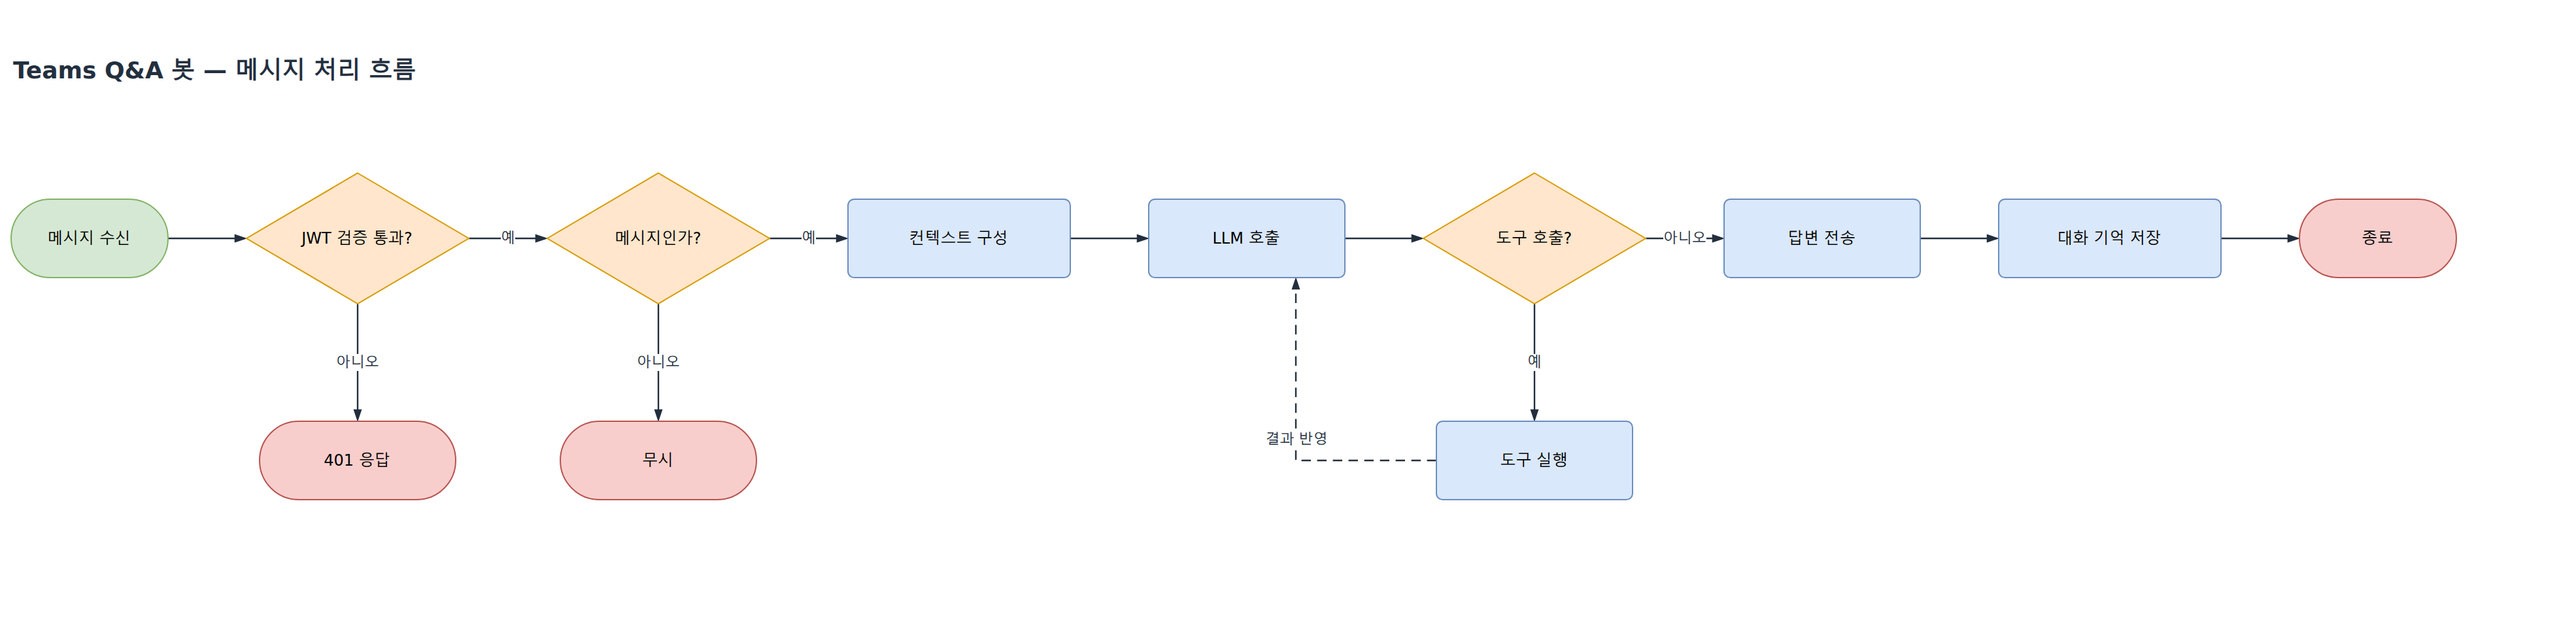
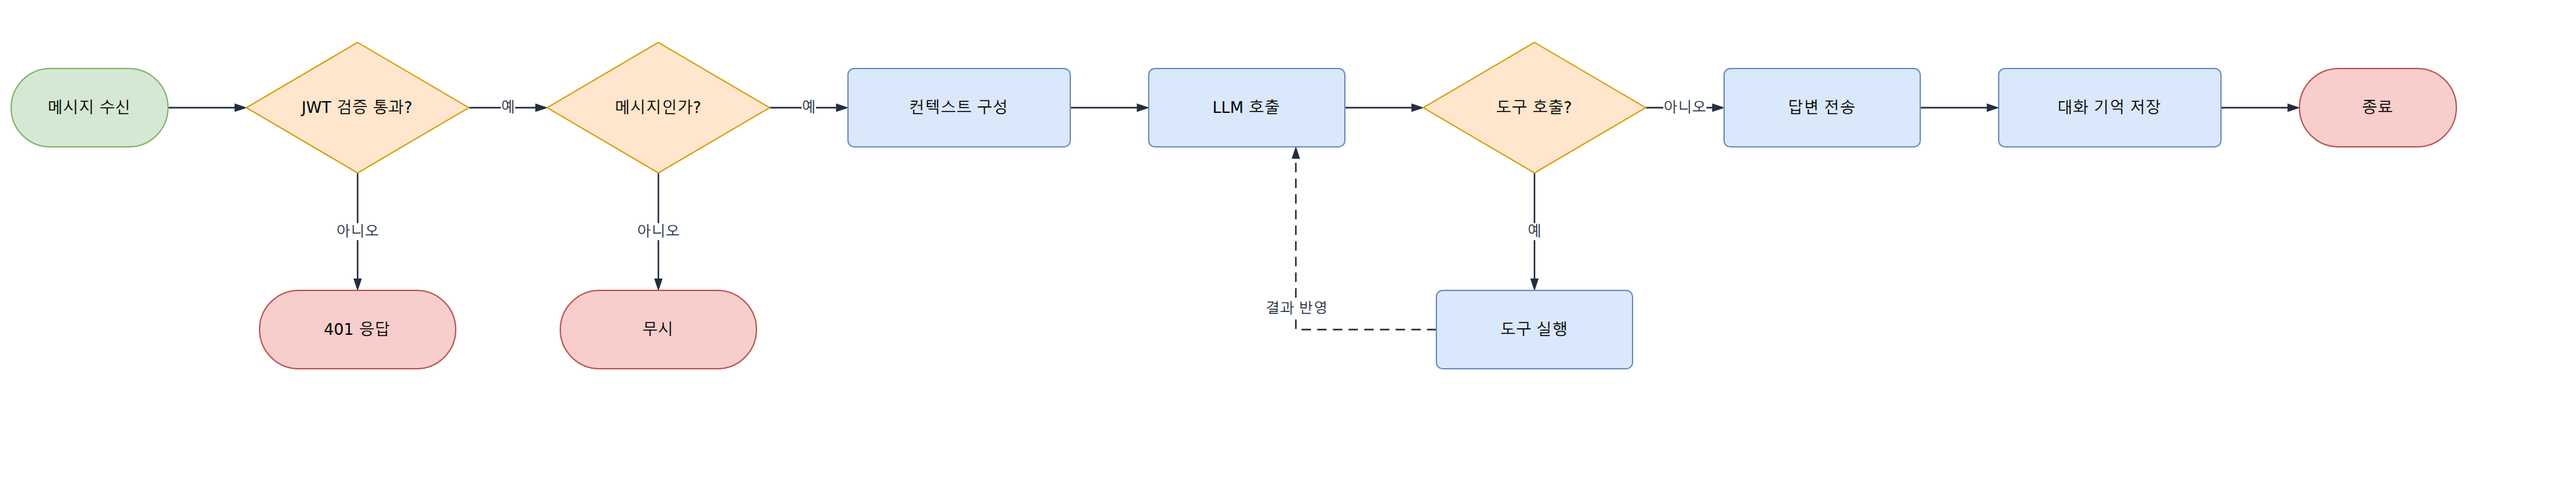
docs: restyle the architecture example and title the README examples
The architecture example now follows the original team-agent layout
(Microsoft 365, inquiry board, AWS account with VPC, internal and SaaS
targets), rearranged so no line crosses a caption or a box label. Titles move
out of the images and into README headings. THIRD-PARTY notes the Teams logo.

diff --git a/docs/team-agent.py b/docs/team-agent.py
@@ -3,9 +3,6 @@
 
   python3 docs/team-agent.py
   python3 scripts/drawio_render.py docs/team-agent.drawio
-
-캡션이 아이콘보다 넓으면 아래 면으로 선을 못 낸다(캡션 관통). 아래로 선을 내는
-노드(큐·워커·도구)는 캡션을 짧게 두고, 무엇인지는 그룹 라벨과 제목에 적는다.
 """
 import os
 import sys
@@ -15,47 +12,58 @@ sys.path.insert(0, os.path.join(HERE, "..", "scripts"))
 from drawio_build import Diagram, icon  # noqa: E402
 from drawio_route import Panel  # noqa: E402
 
-TITLE = ("text;html=0;strokeColor=none;fillColor=none;align=left;verticalAlign=middle;"
-         "fontSize=18;fontStyle=1;fontColor=#232F3E;")
+ROLE = ("text;html=0;strokeColor=none;fillColor=none;align=center;verticalAlign=top;"
+        "fontSize=12;fontColor=#232F3E;")
+ROW1, ROW2 = 480, 680
+C1, C2, C3, C4, C5 = 300, 540, 780, 1020, 1240
 
 d = Diagram("팀 에이전트")
-p = Panel(d, "t", 0, 0)
+p = Panel(d, "a", 0, 0)
 
-p.node("title", "팀 에이전트 — Claude Agent SDK 를 ECS Fargate 에 자체 호스팅", 40, 0, TITLE,
-       w=900, h=40)
-p.group("g_ms", "Microsoft Azure", 200, 60, 240, 200, kind="onpremise")
-p.group("g_board", "사내 문의 채널", 800, 60, 240, 200, kind="onpremise")
-p.group("g_aws", "에이전트 AWS 계정", 440, 320, 1260, 660, kind="cloud")
-p.group("g_vpc", "VPC (프라이빗 서브넷)", 900, 560, 560, 400, kind="vpc")
-p.group("g_int", "사내 시스템", 1000, 1040, 260, 180, kind="onpremise")
-p.group("g_ext", "외부 SaaS", 1300, 1040, 220, 180, kind="account")
 
-p.node("actor", "담당자", 40, 140, icon("aws/general/user"))
-p.node("bot", "Teams 봇", 260, 140, icon("azure/ml/bot-services"))
-p.node("board", "게시판", 880, 140, icon("aws/general/forums"))
+def pair(cid, col, row, ic, service, role, role_w=158):
+    """아이콘 캡션에 서비스명, 그 아래 한 줄로 역할."""
+    p.node(cid, service, col, row, icon(ic))
+    p.node(cid + "_role", role, col - (role_w - 78) // 2, row + 100, ROLE, w=role_w, h=20)
 
-p.node("apigw", "API Gateway", 680, 420, icon("aws/network/api-gateway"))
-p.node("recv", "수신 Lambda", 900, 420, icon("aws/compute/lambda"))
-p.node("q", "SQS", 1120, 420, icon("aws/integration/simple-queue-service-sqs"))
-p.node("dynamo", "세션 저장소", 700, 640, icon("aws/database/dynamodb"))
-p.node("worker", "워커", 1120, 640, icon("aws/compute/fargate"))
-p.node("plink", "VPC 엔드포인트", 1340, 640, icon("aws/network/privatelink"))
-p.node("model", "Bedrock", 1580, 640, icon("aws/ml/bedrock"))
-p.node("tools", "도구", 1120, 840, icon("aws/compute/elastic-container-service"))
-p.node("db", "사내 DB", 1120, 1100, icon("aws/database/aurora"))
-p.node("jira", "Jira", 1380, 1100, icon("saas/saas"))
 
-p.edge("e1", "", "actor", "bot")
-p.edge("e2", "HTTPS", "bot", "apigw", sp=(1, 0.25), ep=(0.25, 0))
-p.edge("e3", "문의 등록", "board", "apigw", sp=(0, 0.75), ep=(0.75, 0))
-p.edge("e4", "", "apigw", "recv")
-p.edge("e5", "적재", "recv", "q")
-p.edge("e6", "폴링", "q", "worker", sp=(0.25, 1), ep=(0.25, 0))
-p.edge("e7", "세션", "worker", "dynamo")
-p.edge("e8", "추론", "worker", "plink")
-p.edge("e9", "", "plink", "model")
-p.edge("e10", "MCP", "worker", "tools", sp=(0.25, 1), ep=(0.25, 0))
-p.edge("e11", "읽기 전용", "tools", "db", sp=(0.25, 1), ep=(0.25, 0))
-p.edge("e12", "조회·등록", "tools", "jira", sp=(1, 0.5), ep=(0.5, 0))
+p.group("g_m365", "Microsoft 365 / Azure", 200, 60, 620, 220, kind="onpremise")
+p.group("g_board", "문의 게시판", 880, 60, 240, 220, kind="onpremise")
+p.group("g_aws", "사내 AWS 계정", 200, 380, 1300, 470, kind="cloud")
+# API Gateway 는 리전 서비스라 VPC 밖. VPC 라벨이 위에서 내려오는 두 선을 피한다.
+p.group("g_vpc", "VPC (프라이빗 서브넷)", 480, 420, 660, 400, kind="vpc")
+p.group("g_ext", "외부 SaaS", 1060, 920, 240, 170, kind="account")
+p.group("g_int", "사내 시스템", 1340, 920, 240, 170, kind="onpremise")
+
+p.node("actor", "담당자", 40, ROW1, icon("aws/general/user"))
+p.node("teams", "Teams", 260, 140, icon("saas/chat/teams"))
+p.node("bot", "Azure Bot Service", 480, 140, icon("azure/ml/bot-services"))
+p.node("entra", "Entra 앱 등록", 700, 140, icon("azure/identity/azure-active-directory"))
+# 아래로 선을 내는 노드라 캡션을 비우고 이름은 그룹 라벨에 둔다.
+p.node("board", "", 940, 140, icon("aws/general/forums"))
+p.node("apigw", "API Gateway", 340, ROW1, icon("aws/network/api-gateway"))
+pair("bf", C2, ROW1, "aws/compute/lambda", "Lambda", "Bot Framework 어댑터", role_w=180)
+p.node("rt", "Claude Agent SDK (Fargate)", C3, ROW1, icon("aws/compute/fargate"))
+p.node("plink", "VPC 엔드포인트", C4, ROW1, icon("aws/network/privatelink"))
+p.node("model", "Bedrock (Claude)", C5, ROW1, icon("aws/ml/bedrock"))
+# 아래 줄은 반 칸씩 엇갈려 둔다 — 위 노드 옆면에서 나와 아래 노드 위로 들어간다.
+pair("store", 640, ROW2, "aws/database/dynamodb", "DynamoDB", "세션 · 대화 기록", role_w=160)
+p.node("tool", "ECS (MCP 도구)", 900, ROW2, icon("aws/compute/elastic-container-service"))
+p.node("jira", "Jira·Confluence", 1180, 980, icon("saas/saas"))
+p.node("db", "사내 DB", 1420, 980, icon("aws/general/generic-database"))
+
+p.edge("f1", "", "actor", "teams")
+p.edge("f2", "문의·승인 메시지", "teams", "bot")
+p.edge("f3", "앱 권한 토큰", "bot", "entra", dashed=True)
+p.edge("f4", "아웃바운드 HTTPS", "bot", "apigw", sp=(0, 0.75), ep=(0.75, 0))
+p.edge("f5", "문의 등록", "board", "apigw", sp=(0.25, 1), ep=(0.25, 0))
+p.edge("a1", "요청 변환", "apigw", "bf")
+p.edge("a2", "세션 시작·재개", "bf", "rt")
+p.edge("a3", "추론 호출", "rt", "plink")
+p.edge("a4", "", "plink", "model")
+p.edge("a5", "세션 체크포인트", "rt", "store", sp=(0, 0.75), ep=(0.5, 0))
+p.edge("a6", "도구 호출", "rt", "tool", sp=(1, 0.75), ep=(0.5, 0))
+p.edge("t1", "조회·등록", "tool", "jira", sp=(1, 0.75), ep=(0.5, 0))
+p.edge("t2", "조회", "tool", "db", sp=(1, 0.25), ep=(0.5, 0))
 
 d.save(os.path.join(HERE, "team-agent.drawio"))

diff --git a/docs/flow.py b/docs/flow.py
@@ -18,15 +18,12 @@ START = "rounded=1;arcSize=50;whiteSpace=wrap;fillColor=#D5E8D4;strokeColor=#82B
 PROC = "rounded=1;arcSize=8;whiteSpace=wrap;fillColor=#DAE8FC;strokeColor=#6C8EBF;fontSize=12;"
 DEC = "rhombus;whiteSpace=wrap;fillColor=#FFE6CC;strokeColor=#D79B00;fontSize=12;"
 END = "rounded=1;arcSize=50;whiteSpace=wrap;fillColor=#F8CECC;strokeColor=#B85450;fontSize=12;"
-TITLE = ("text;html=0;strokeColor=none;fillColor=none;align=left;verticalAlign=middle;"
-         "fontSize=18;fontStyle=1;fontColor=#232F3E;")
 
 CY, CY2 = 150, 320          # 주 흐름 · 분기 줄의 세로 중심
 PH, DH = 60, 100            # 칸 · 마름모 높이
 
 d = Diagram("메시지 처리 흐름")
 p = Panel(d, "f", 0, 0)
-p.node("title", "Teams Q&A 봇 — 메시지 처리 흐름", 40, 0, TITLE, w=600, h=40)
 
 
 def box(cid, label, x, w, style=PROC, cy=CY):

diff --git a/THIRD-PARTY.md b/THIRD-PARTY.md
@@ -24,8 +24,9 @@ This repository contains **no vendor icon files**.
 
 The one exception is the architecture example at the top of the README
 (`docs/team-agent.png`). It is an architecture diagram rendered with unmodified AWS
-icons and one Azure icon, a use both AWS and Microsoft permit; no icon file is
-included on its own.
+and Azure icons, a use both AWS and Microsoft permit, plus the Microsoft Teams logo,
+shown only to name the product the bot connects to. No icon file is included on
+its own.
 
 At runtime, this skill reads icon images from the `diagrams` package
 (https://github.com/mingrammer/diagrams) installed in the user's own Python

diff --git a/README.ja.md b/README.ja.md
@@ -2,9 +2,13 @@
 
 [English](README.md) | [한국어](README.ko.md) | [简体中文](README.zh-CN.md) | 日本語
 
+### アーキテクチャ図の例
+
 <p align="center">
   <img src="docs/team-agent.png" alt="アーキテクチャ図の例" width="80%">
 </p>
+
+### フローチャートの例
 
 <p align="center">
   <img src="docs/flow.png" alt="フローチャートの例">

diff --git a/README.md b/README.md
@@ -2,9 +2,13 @@
 
 [English](README.md) | [한국어](README.ko.md) | [简体中文](README.zh-CN.md) | [日本語](README.ja.md)
 
+### Architecture example
+
 <p align="center">
   <img src="docs/team-agent.png" alt="Architecture example" width="80%">
 </p>
+
+### Flowchart example
 
 <p align="center">
   <img src="docs/flow.png" alt="Flowchart example">

diff --git a/README.ko.md b/README.ko.md
@@ -2,9 +2,13 @@
 
 [English](README.md) | 한국어 | [简体中文](README.zh-CN.md) | [日本語](README.ja.md)
 
+### 아키텍처 예시
+
 <p align="center">
   <img src="docs/team-agent.png" alt="아키텍처 예시" width="80%">
 </p>
+
+### 플로우차트 예시
 
 <p align="center">
   <img src="docs/flow.png" alt="플로우차트 예시">

diff --git a/README.zh-CN.md b/README.zh-CN.md
@@ -2,9 +2,13 @@
 
 [English](README.md) | [한국어](README.ko.md) | 简体中文 | [日本語](README.ja.md)
 
+### 架构图示例
+
 <p align="center">
   <img src="docs/team-agent.png" alt="架构图示例" width="80%">
 </p>
+
+### 流程图示例
 
 <p align="center">
   <img src="docs/flow.png" alt="流程图示例">
